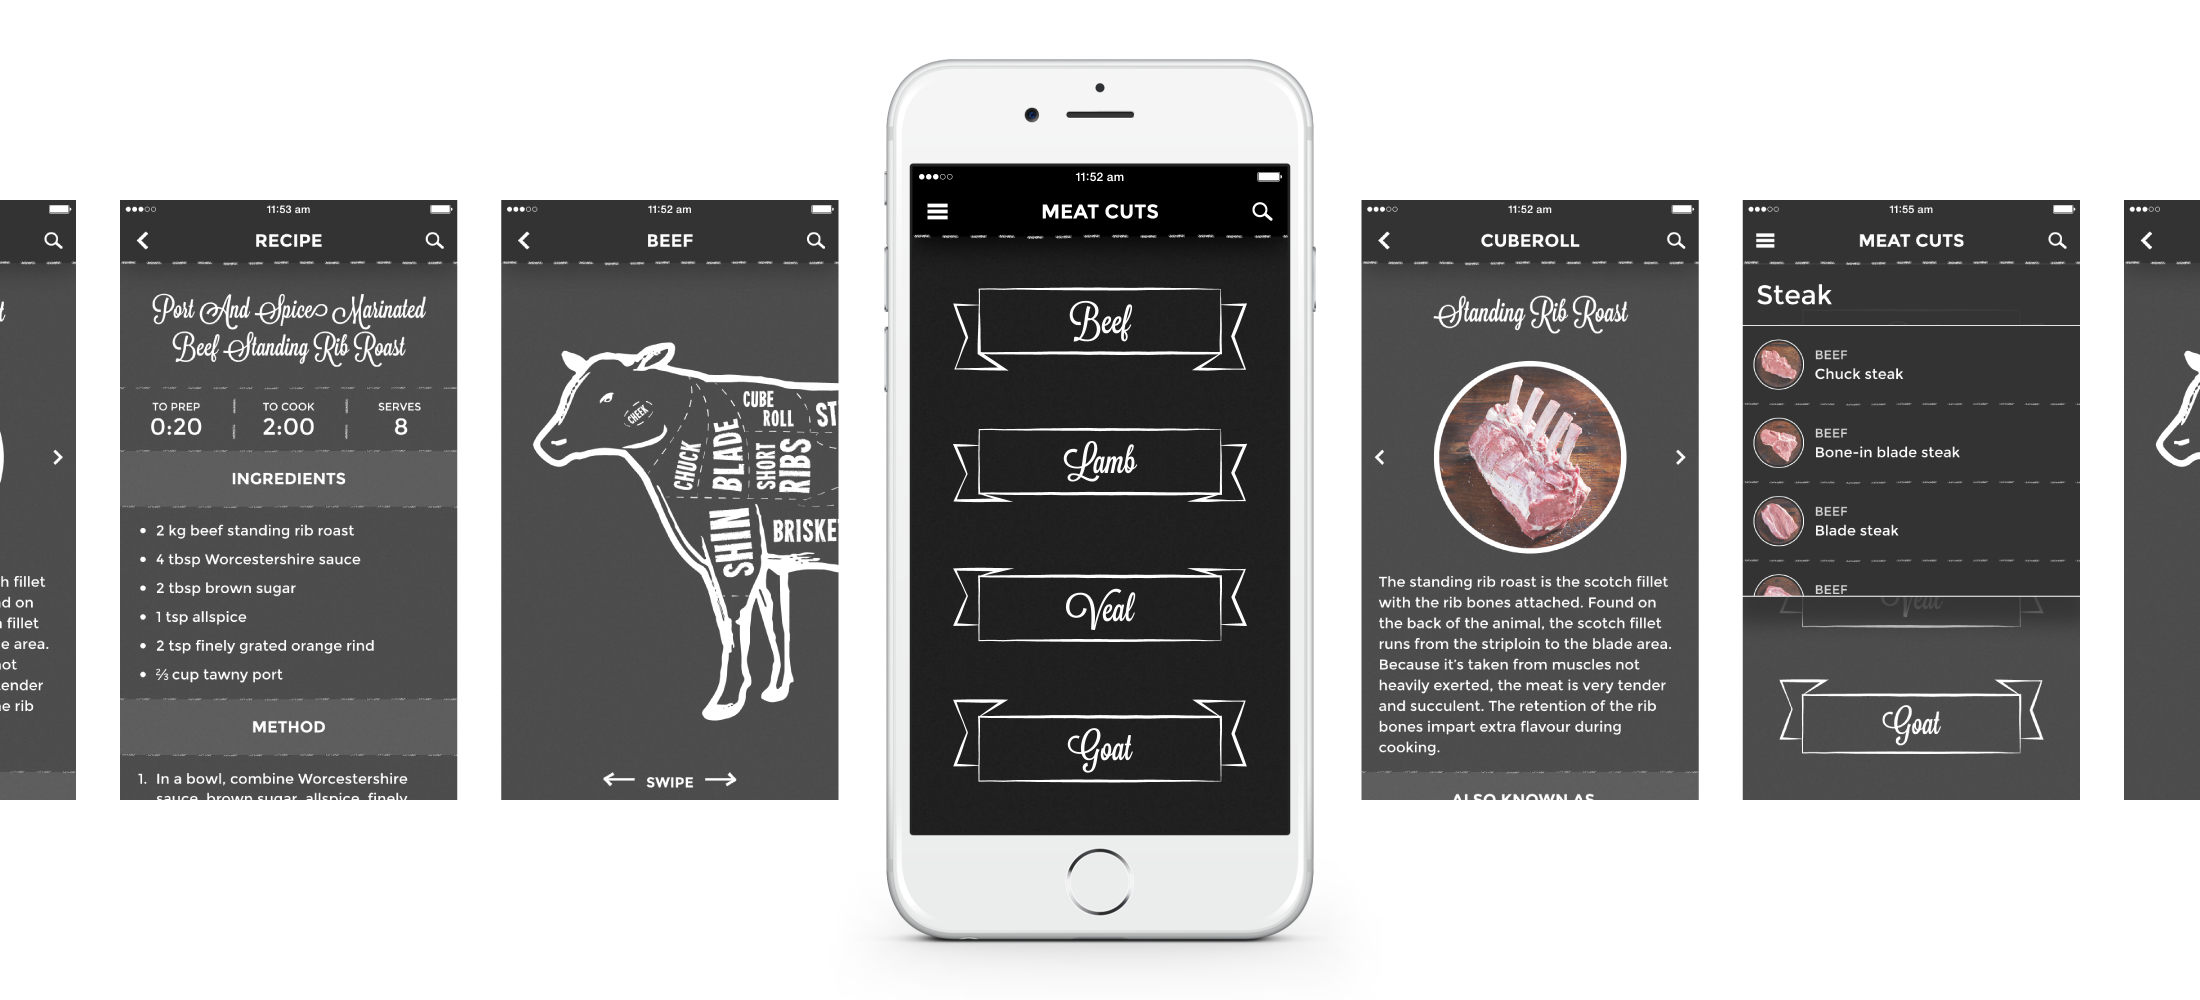
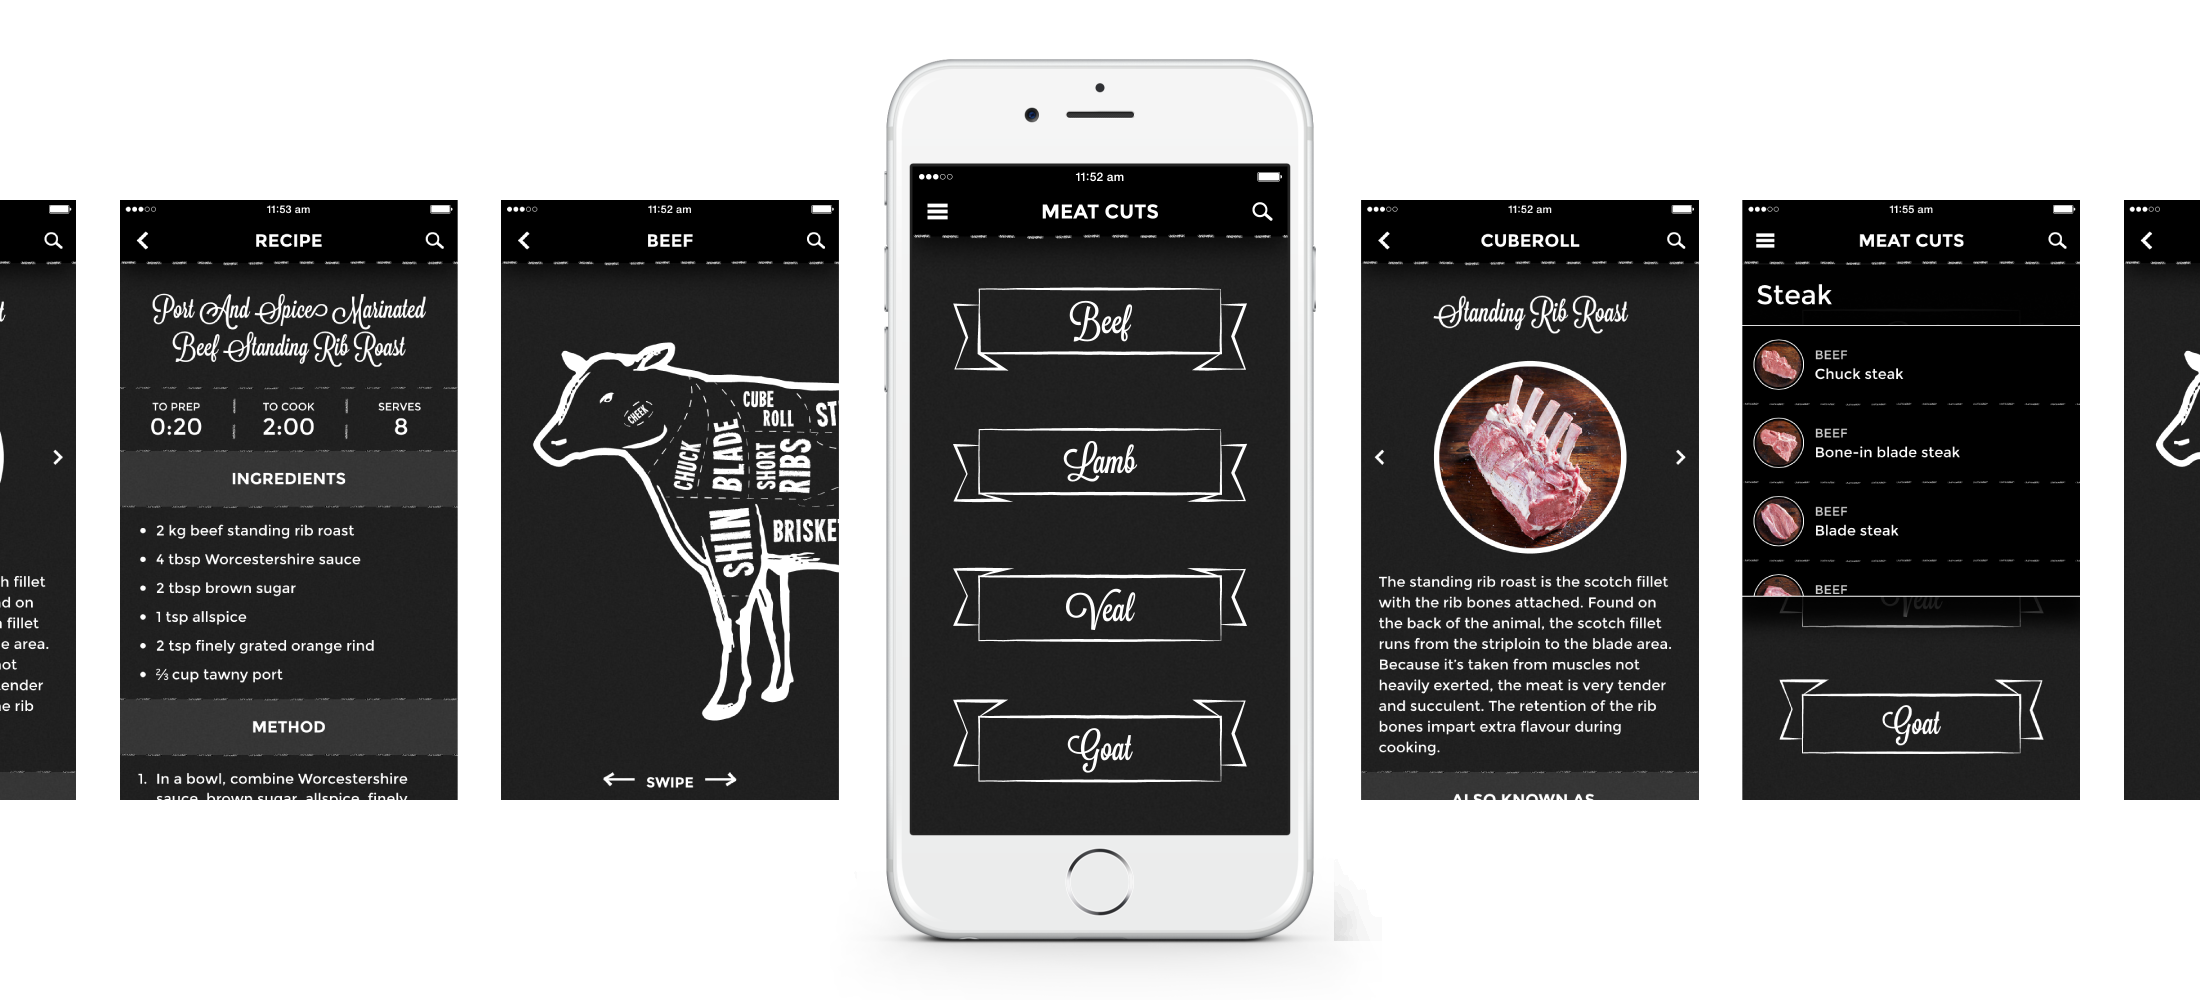
small images for home page

diff --git a/contents/styles/sections/_work.sass b/contents/styles/sections/_work.sass
@@ -5,7 +5,7 @@
     @each $project in $project-list
       &.#{$project}
         @extend .bg-#{$project}
-        background-image: url('../../#{$project}/project-detail.png')
+        background-image: url('../../#{$project}/project-detail-sm.png')
         background-repeat: no-repeat
         background-position: center
         background-size: 100%
